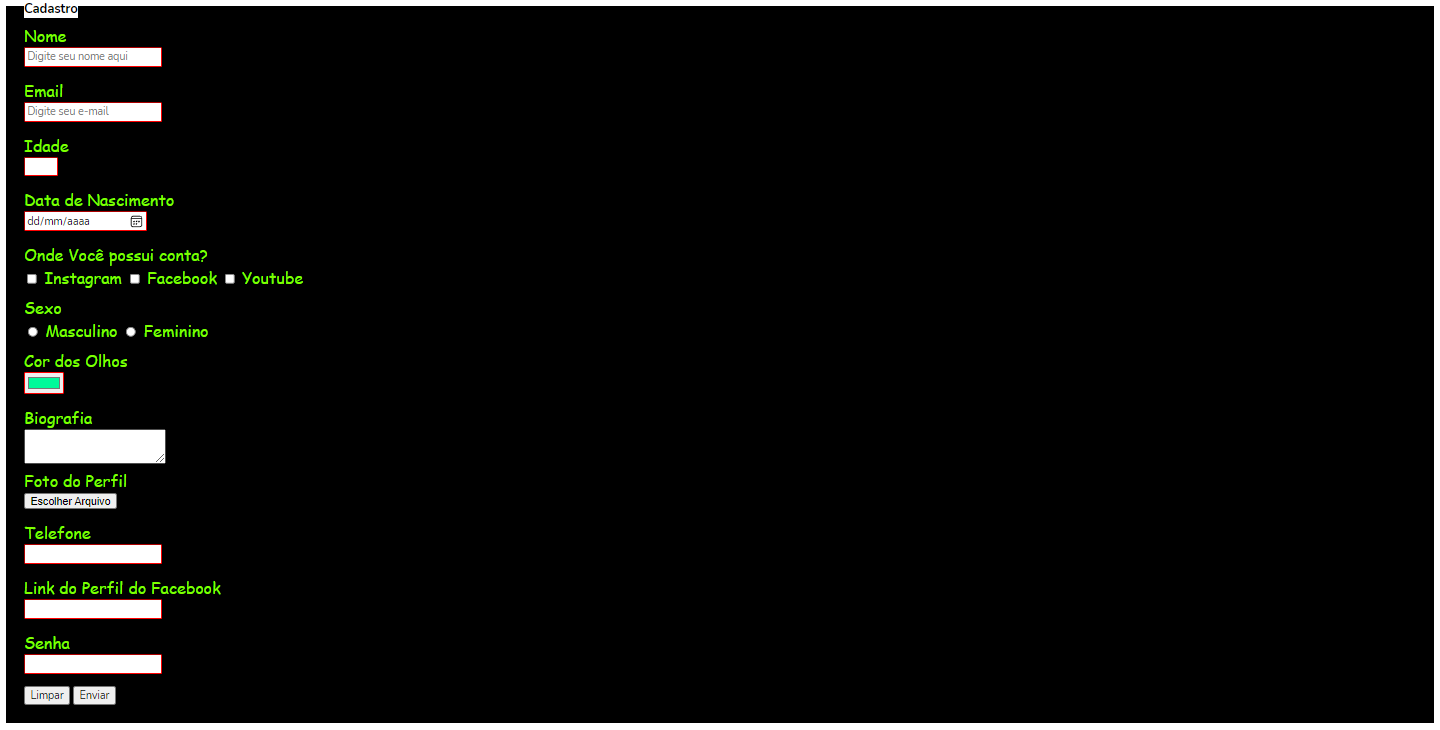
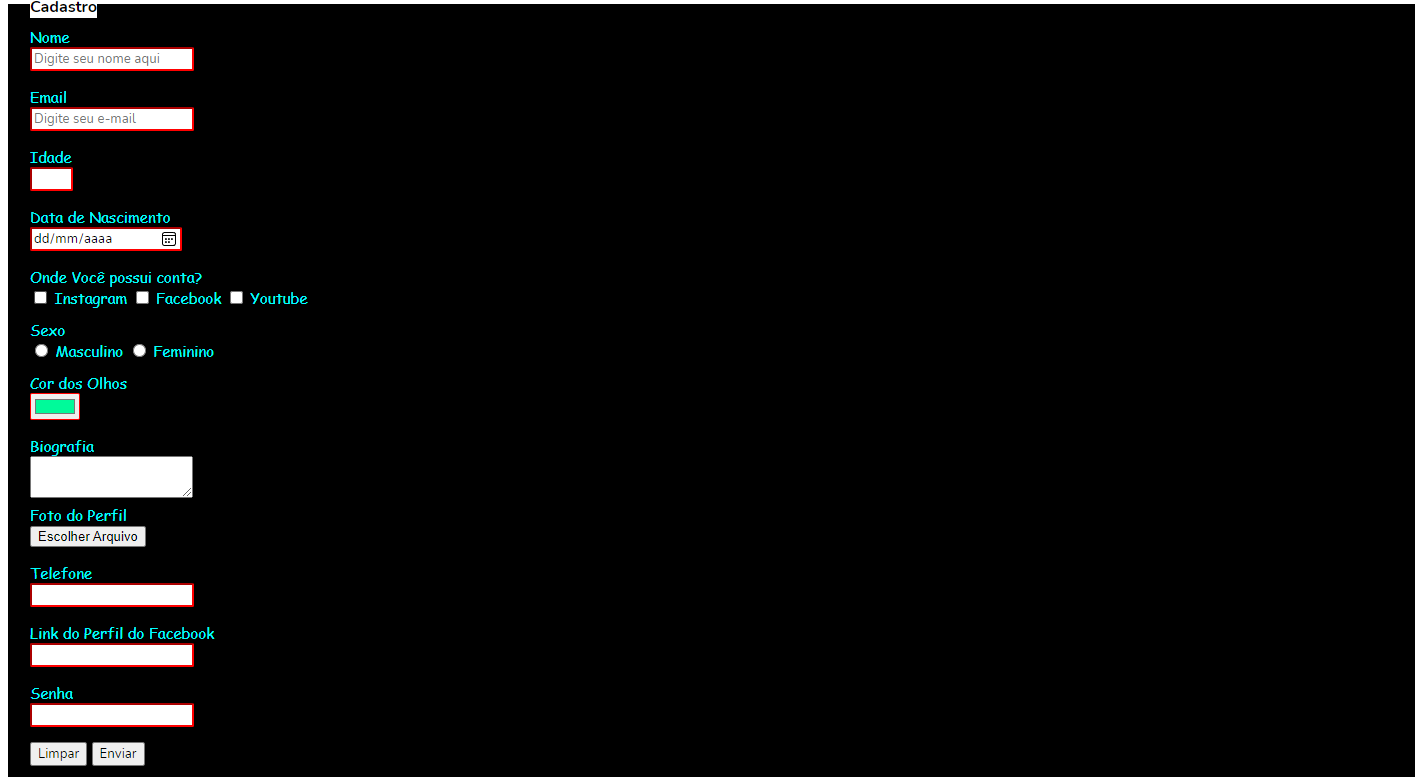
final commit

Changed region(s): [[0.0, 0.0, 1.0, 1.0]]

diff --git a/DesafioFormulário.html b/DesafioFormulário.html
@@ -8,10 +8,7 @@
     <link href="./stylesformulário.css" rel="stylesheet">
     <link rel="preconnect" href="https://fonts.googleapis.com">
     <link rel="preconnect" href="https://fonts.gstatic.com" crossorigin>
-    <link
-        href="https://fonts.googleapis.com/css2?family=Nunito:ital,wght@0,200;0,300;0,400;0,600;0,700;0,800;0,900;1,200;1,300;1,400;1,600;1,700;1,800;1,900&display=swap"
-        rel="stylesheet">
-
+    <link href="https://fonts.googleapis.com/css2?family=Nunito:ital,wght@0,200;0,300;0,400;0,600;0,700;0,800;0,900;1,200;1,300;1,400;1,600;1,700;1,800;1,900&display=swap" rel="stylesheet">
     <title>Collored Formulary</title>
 </head>
 
